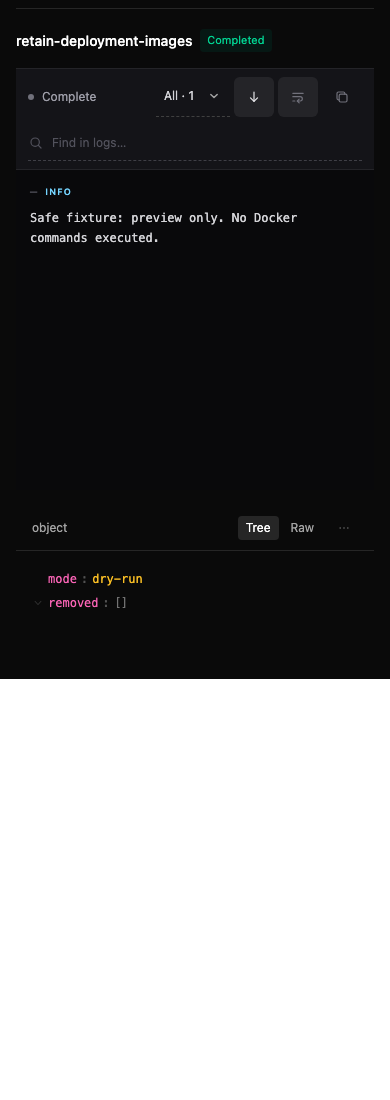
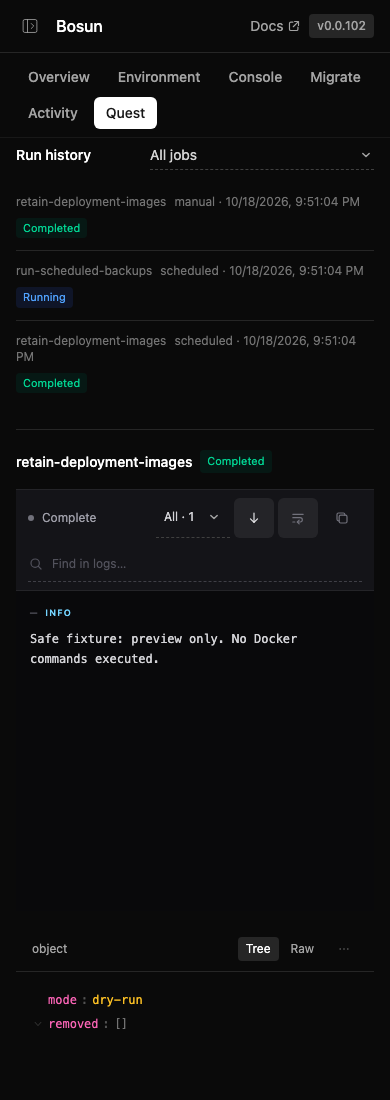
test: retain complete cleanup outcomes and review evidence

diff --git a/api/helpers/image-retention/run.js b/api/helpers/image-retention/run.js
@@ -69,6 +69,7 @@ module.exports = {
       result.status = 'running'
       for (const candidate of plan.candidates.slice(0, policy.maxRemovals)) {
         if (Date.now() - result.startedAt >= policy.maxRunMs) {
+          result.stopReason = 'run-time-limit'
           result.skipped.push({ id: candidate.id, reason: 'run-time-limit' })
           break
         }
@@ -162,6 +163,22 @@ module.exports = {
       })
     }
     async function finish() {
+      if (result.mode === 'remove') {
+        const accounted = new Set([
+          ...result.removed,
+          ...result.skipped.map((item) => item.id),
+          ...result.failed.map((item) => item.id)
+        ])
+        for (const candidate of result.plan?.candidates || []) {
+          if (!accounted.has(candidate.id))
+            result.skipped.push({
+              id: candidate.id,
+              reason:
+                result.stopReason ||
+                (result.status === 'held' ? 'inventory-held' : 'run-stopped')
+            })
+        }
+      }
       result.finishedAt = Date.now()
       await save()
       await audit('image-retention.finished', {

diff --git a/tests/unit/helpers/image-retention/retention.test.js b/tests/unit/helpers/image-retention/retention.test.js
@@ -340,3 +340,26 @@ test('cleanup is held while a deployment or rollback holds shared image admissio
     await release()
   }
 })
+
+test('a failed removal records each candidate as removed, failed or skipped', async (t) => {
+  const { state, deployment } = await fixture(t, { remove: true })
+  for (let n = 1; n <= 7; n++) deployment(n)
+  const remove = sails.helpers.imageRetention.removeImage.with
+  let attempts = 0
+  sails.helpers.imageRetention.removeImage.with = async (input) => {
+    if (++attempts === 2) throw new Error('fixture Docker removal failed')
+    return remove(input)
+  }
+  await assert.rejects(run.fn(), /fixture Docker removal failed/)
+  const outcome = state.writes.at(-1).value
+  assert.deepEqual(outcome.removed, [id(1)])
+  assert.deepEqual(
+    outcome.failed.map((item) => item.id),
+    [id(2)]
+  )
+  assert.deepEqual(
+    outcome.skipped.map((item) => item.id),
+    [id(3), id(4)]
+  )
+  assert.equal(outcome.status, 'failed')
+})

diff --git a/tests/e2e/pages/bosun-quest.test.js b/tests/e2e/pages/bosun-quest.test.js
@@ -166,6 +166,7 @@ test(
       await panel
         .getByLabel('Instance run detail')
         .evaluate((node) => node.scrollIntoView({ block: 'start' }))
+      await page.raw.evaluate(() => window.scrollTo(0, 0))
       await page.raw.screenshot({
         path: path.join(output, 'instance-preview-mobile-dark.png'),
         animations: 'disabled'
